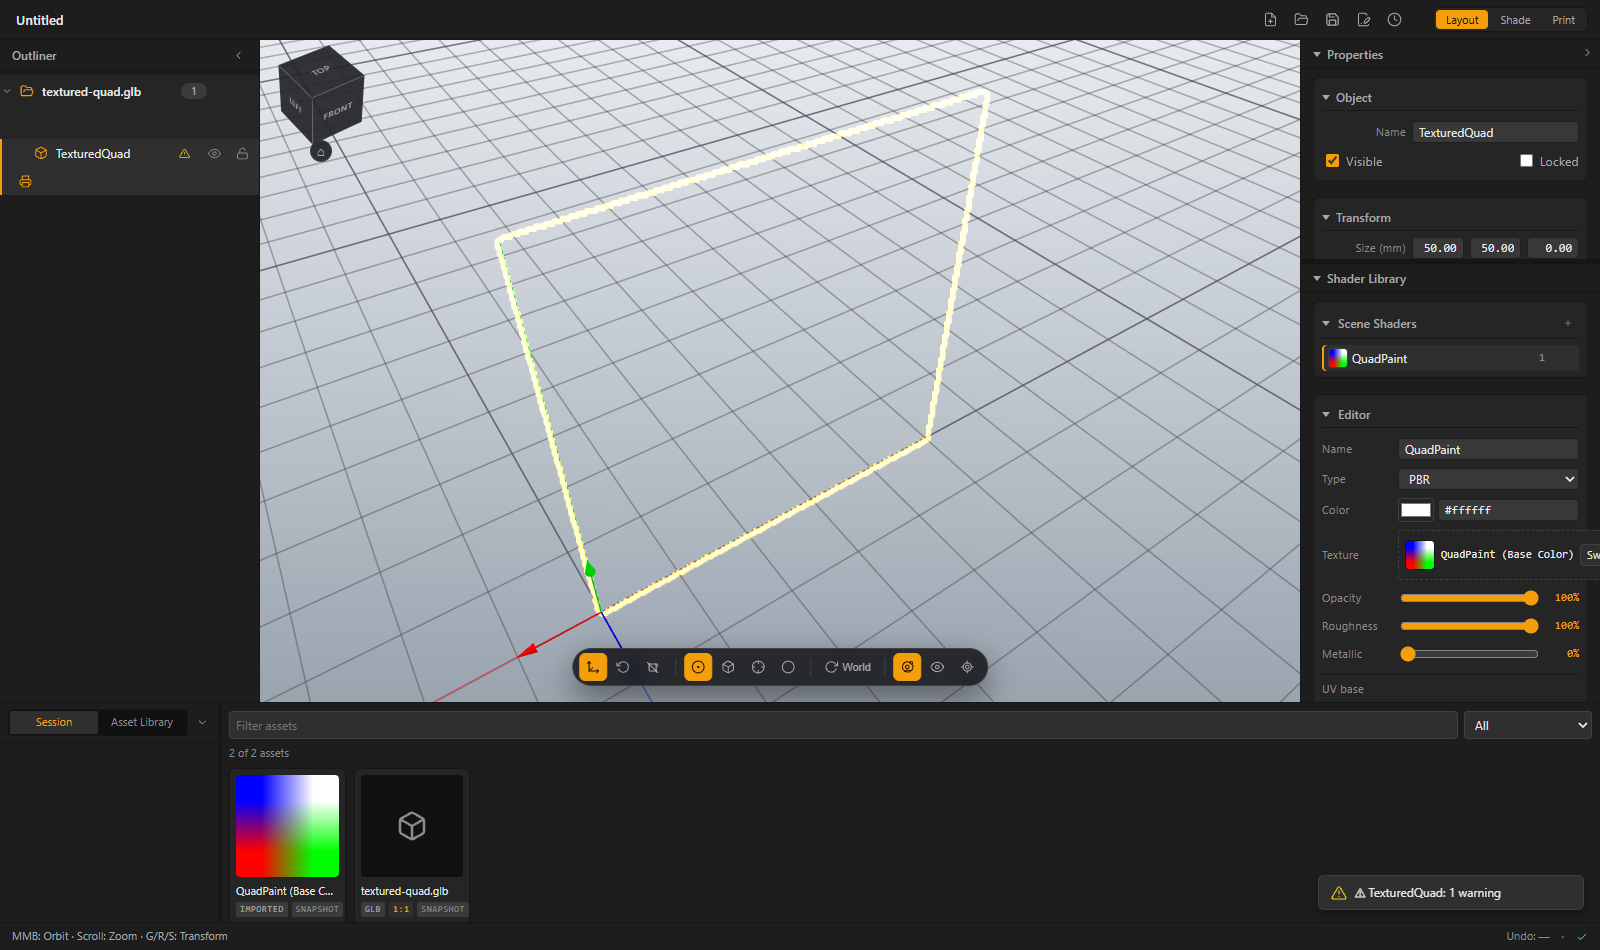
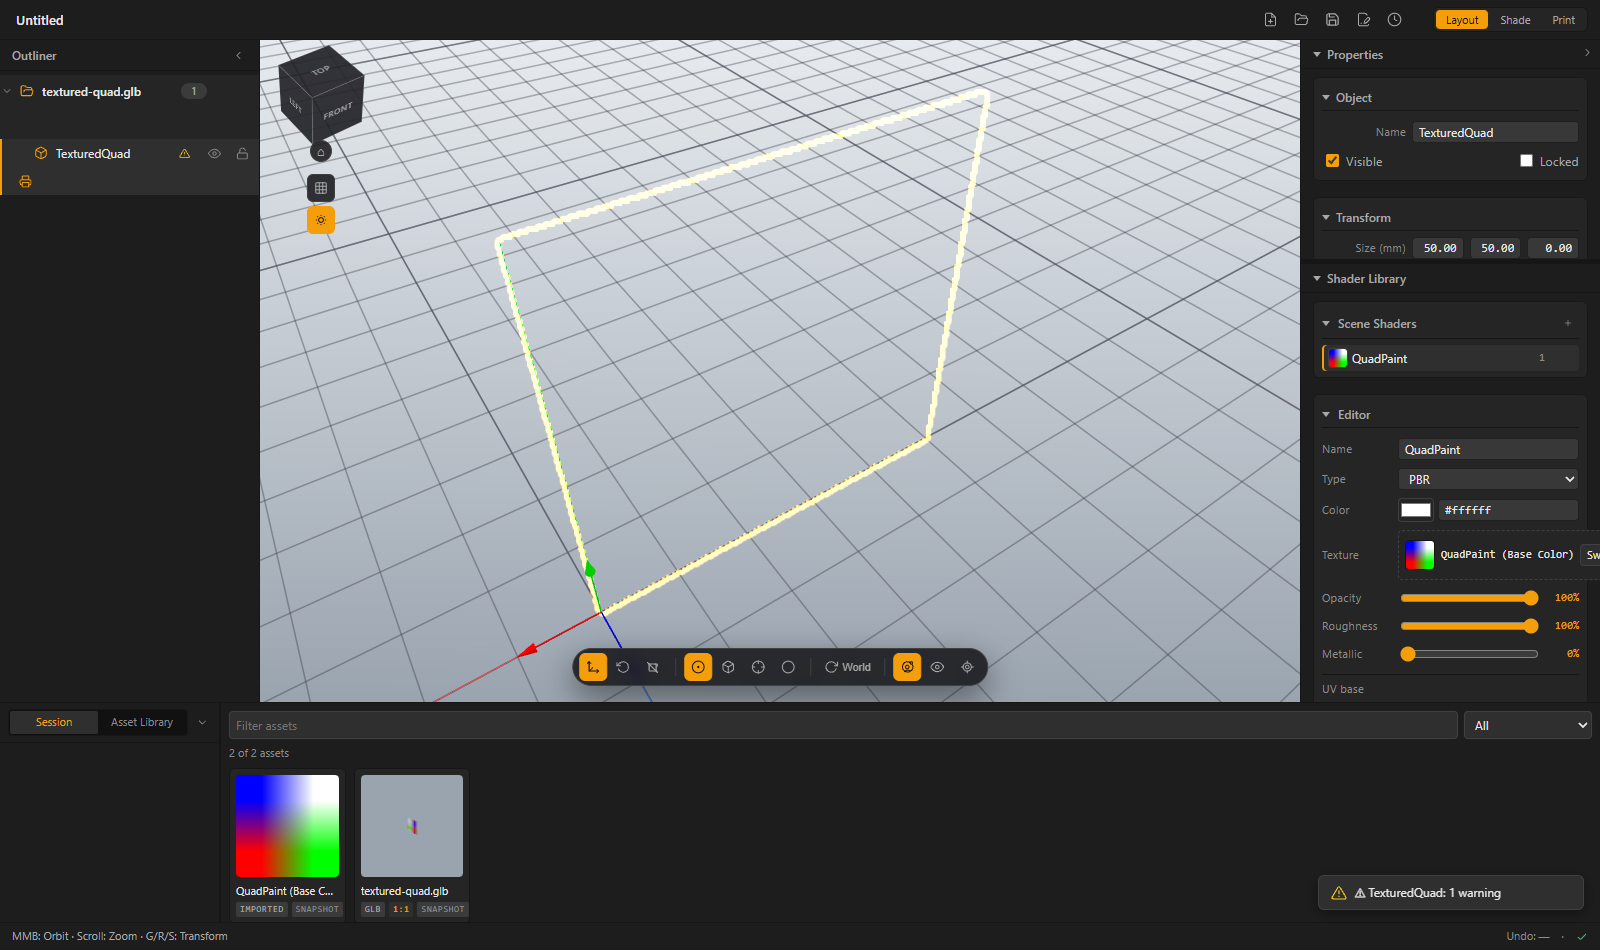
feat(viewport): wireframe + matte toggles under NavCube; Preview tab removed
New ui/ViewportToggles.js renders a vertical stack docked under the
NavCube: a Wireframe Edges toggle (Grid3x3 icon, with the edge-colour
swatch shown while ON) and a Matte/flat toggle (SunDim icon, print
preview mode that removes metallic). Same state contract the Preview tab
used (silent overlay writes + SceneManager.setOverlay); re-renders on
PROJECT_LOADED/PROJECT_NEW.

Moving display modes into the viewport makes them reachable from every
workspace, so the Print Panel Preview tab is removed (tabs are now
Scale / Validation / Bed / Export). Blueprint updated; setOverlay doc
list also gains the missing printPreview entry.

Changed region(s): [[0.2188, 0.7937, 0.3125, 0.9463], [0.1875, 0.1832, 0.2188, 0.2442]]

diff --git a/src/ui/PrintPanel.js b/src/ui/PrintPanel.js
@@ -21,7 +21,7 @@ import { exportFactor } from '../core/print/PrintScale.js';
 export const PRINTERS = printersData;
 
 let _bodyEl = null;
-let _activeTab = 'scale'; // 'scale' | 'validation' | 'bed' | 'preview' | 'export'
+let _activeTab = 'scale'; // 'scale' | 'validation' | 'bed' | 'export'
 
 export function init() {
   _bodyEl = document.getElementById('rp-print-body');
@@ -70,12 +70,14 @@ function _focusValidation() {
 // ── Tabs ──────────────────────────────────────────────────
 
 function _renderTabs() {
-  const tabs = ['scale', 'validation', 'bed', 'preview', 'export'];
+  // Preview controls (wireframe edges, matte/flat) moved to the viewport
+  // toggles under the NavCube (ui/ViewportToggles.js) so they're reachable
+  // from every workspace — no Preview tab.
+  const tabs = ['scale', 'validation', 'bed', 'export'];
   const labels = {
     scale: 'Scale',
     validation: 'Validation',
     bed: 'Bed',
-    preview: 'Preview',
     export: 'Export',
   };
 
@@ -498,76 +500,6 @@ function _renderBedTab() {
   return el;
 }
 
-// ── Preview Tab ──────────────────────────────────────────
-
-function _renderPreviewTab() {
-  const state = getState();
-  const isOn = state.scene.overlays.printPreview ?? false;
-  const wireOn = state.scene.overlays.wireframeEdges ?? false;
-  const wireColor = state.scene.overlays.wireframeEdgeColor ?? '#ffcc00';
-
-  let html = '<div class="pp-tab-content">';
-
-  html += '<div class="pp-field-group">';
-  html += '<label>Print Preview Mode</label>';
-  html += '<div class="pp-checkbox">';
-  html += `<input type="checkbox" id="pp-preview-toggle" ${isOn ? 'checked' : ''}>`;
-  html += '<label for="pp-preview-toggle">Matte/flat (removes metallic)</label>';
-  html += '</div>';
-  html += '</div>';
-
-  html += '<div class="pp-field-group">';
-  html += '<label>Wireframe Edges</label>';
-  html += '<div class="pp-checkbox">';
-  html += `<input type="checkbox" id="pp-wire-toggle" ${wireOn ? 'checked' : ''}>`;
-  html += '<label for="pp-wire-toggle">Show edge outlines on models</label>';
-  html += '</div>';
-  html += `<div class="pp-wire-color-row ${wireOn ? '' : 'pp-hidden'}">`;
-  html += '<label>Edge color</label>';
-  html += `<input type="color" id="pp-wire-color" value="${escapeAttr(_safeHex(wireColor))}">`;
-  html += '</div>';
-  html += '</div>';
-
-  html += '</div>';
-
-  const el = document.createElement('div');
-  el.innerHTML = html;
-
-  el.querySelector('#pp-preview-toggle').addEventListener('change', (e) => {
-    const enabled = e.target.checked;
-    setState(s => ({
-      ...s,
-      scene: { ...s.scene, overlays: { ...s.scene.overlays, printPreview: enabled } },
-    }), { silent: true });
-    SceneManager.setOverlay('printPreview', enabled);
-  });
-
-  const wireToggle = el.querySelector('#pp-wire-toggle');
-  const wireColorRow = el.querySelector('.pp-wire-color-row');
-  const wireColorInput = el.querySelector('#pp-wire-color');
-
-  wireToggle.addEventListener('change', (e) => {
-    const enabled = e.target.checked;
-    wireColorRow.classList.toggle('pp-hidden', !enabled);
-    setState(s => ({
-      ...s,
-      scene: { ...s.scene, overlays: { ...s.scene.overlays, wireframeEdges: enabled } },
-    }), { silent: true });
-    SceneManager.setOverlay('wireframeEdges', enabled);
-  });
-
-  wireColorInput.addEventListener('input', (e) => {
-    const color = e.target.value;
-    setState(s => ({
-      ...s,
-      scene: { ...s.scene, overlays: { ...s.scene.overlays, wireframeEdgeColor: color } },
-    }), { silent: true });
-    SceneManager.setWireframeEdgeColor(color);
-  });
-
-  return el;
-}
-
 // ── Main render ───────────────────────────────────────────
 
 async function _render() {
@@ -584,8 +516,6 @@ async function _render() {
     _bodyEl.appendChild(_renderValidationTab());
   } else if (_activeTab === 'bed') {
     _bodyEl.appendChild(_renderBedTab());
-  } else if (_activeTab === 'preview') {
-    _bodyEl.appendChild(_renderPreviewTab());
   } else if (_activeTab === 'export') {
     _bodyEl.appendChild(_renderExportTab());
   }
@@ -655,8 +585,3 @@ function _renderValidationErrorsModal({ data, close }) {
 }
 
 export const PrintPanel = { init };
-
-function _safeHex(value) {
-  const hex = String(value ?? '').trim();
-  return /^#[0-9a-f]{6}$/i.test(hex) ? hex : '#ffcc00';
-}

diff --git a/src/ui/ViewportToggles.js b/src/ui/ViewportToggles.js
@@ -1,0 +1,75 @@
+// Viewport display toggles — docked under the NavCube (user request
+// 2026-06-12): Wireframe Edges and Matte/flat (print preview, removes
+// metallic), plus the edge-colour swatch shown while wireframe is on.
+// These replaced the Print Panel's Preview tab so display modes are
+// reachable from EVERY workspace, not just Print.
+
+import { EVENTS } from '../core/events.js';
+import { subscribe, getState, setState } from '../core/StateManager.js';
+import { SceneManager } from '../core/SceneManager.js';
+import { icon } from '../core/Icons.js';
+import { escapeAttr } from './renderSafe.js';
+
+let _root = null;
+
+export function init() {
+  _root = document.getElementById('viewport-toggles');
+  if (!_root) return;
+  _render();
+  // Overlays arrive restored on load (spec load step 12) and reset on new.
+  subscribe(EVENTS.PROJECT_LOADED, _render);
+  subscribe(EVENTS.PROJECT_NEW, _render);
+}
+
+function _render() {
+  if (!_root) return;
+  const overlays = getState().scene.overlays ?? {};
+  const wireOn  = overlays.wireframeEdges ?? false;
+  const matteOn = overlays.printPreview ?? false;
+  const wireColor = _safeHex(overlays.wireframeEdgeColor ?? '#ffcc00');
+
+  _root.innerHTML = `
+    <button class="vt-btn ${wireOn ? 'vt-on' : ''}" data-toggle="wireframeEdges"
+            title="Wireframe edges — show edge outlines on models"
+            aria-pressed="${wireOn ? 'true' : 'false'}">
+      ${icon('Grid3x3', { width: 14, height: 14 })}
+    </button>
+    <input type="color" class="vp-wire-color ${wireOn ? '' : 'vp-hidden'}"
+           value="${escapeAttr(wireColor)}" title="Wireframe edge color">
+    <button class="vt-btn ${matteOn ? 'vt-on' : ''}" data-toggle="printPreview"
+            title="Matte/flat preview — removes metallic for print-like shading"
+            aria-pressed="${matteOn ? 'true' : 'false'}">
+      ${icon('SunDim', { width: 14, height: 14 })}
+    </button>
+  `;
+  _wire();
+}
+
+function _wire() {
+  _root.querySelectorAll('[data-toggle]').forEach(btn => {
+    btn.addEventListener('click', () => {
+      const name = btn.dataset.toggle;
+      const enabled = !(getState().scene.overlays?.[name] ?? false);
+      setState(s => ({
+        ...s,
+        scene: { ...s.scene, overlays: { ...s.scene.overlays, [name]: enabled } },
+      }), { silent: true });
+      SceneManager.setOverlay(name, enabled);
+      _render();
+    });
+  });
+  _root.querySelector('.vp-wire-color')?.addEventListener('input', (e) => {
+    const color = e.target.value;
+    setState(s => ({
+      ...s,
+      scene: { ...s.scene, overlays: { ...s.scene.overlays, wireframeEdgeColor: color } },
+    }), { silent: true });
+    SceneManager.setWireframeEdgeColor(color);
+  });
+}
+
+function _safeHex(value) {
+  return /^#[0-9a-fA-F]{6}$/.test(String(value)) ? value : '#ffcc00';
+}
+
+export const ViewportToggles = { init };

diff --git a/src/styles/components/viewport.css b/src/styles/components/viewport.css
@@ -50,6 +50,40 @@
 }
 .vt-label { font-size: var(--fs-xs); font-weight: 500; }
 
+/* ── Viewport display toggles (under the NavCube) ────────── */
+.vp-toggles {
+  position: absolute;
+  top: 134px;            /* nav-cube top 16 + height 110 + 8 gap */
+  left: 16px;
+  width: 90px;           /* match nav-cube width — buttons centre under it */
+  display: flex;
+  flex-direction: column;
+  align-items: center;
+  gap: var(--sp-2);
+  z-index: 10;
+}
+.vp-toggles .vt-btn {
+  background: rgba(19, 19, 22, 0.85);
+  backdrop-filter: blur(8px);
+  border: 1px solid var(--border-strong);
+}
+.vp-toggles .vt-btn:hover { background: var(--bg-3); color: var(--text-0); }
+.vp-toggles .vt-btn.vt-on {
+  background: var(--accent);
+  color: var(--accent-fg);
+  border-color: var(--accent);
+}
+.vp-wire-color {
+  width: 28px;
+  height: 18px;
+  padding: 0;
+  border: 1px solid var(--border-strong);
+  border-radius: var(--r-sm);
+  background: transparent;
+  cursor: pointer;
+}
+.vp-hidden { display: none; }
+
 /* ── Nav cube (Fusion 360 style) ─────────────────────────── */
 .nav-cube {
   position: absolute;

diff --git a/src/core/Icons.js b/src/core/Icons.js
@@ -41,6 +41,8 @@ const ICON_PATHS = {
   Copy:           '<rect x="9" y="9" width="13" height="13" rx="2" ry="2"/><path d="M5 15H4a2 2 0 0 1-2-2V4a2 2 0 0 1 2-2h9a2 2 0 0 1 2 2v1"/>',
   Edit3:          '<path d="M12 20h9"/><path d="M16.5 3.5a2.121 2.121 0 0 1 3 3L7 19l-4 1 1-4L16.5 3.5z"/>',
   Plus:           '<line x1="12" y1="5" x2="12" y2="19"/><line x1="5" y1="12" x2="19" y2="12"/>',
+  Grid3x3:        '<rect width="18" height="18" x="3" y="3" rx="2"/><path d="M3 9h18"/><path d="M3 15h18"/><path d="M9 3v18"/><path d="M15 3v18"/>',
+  SunDim:         '<circle cx="12" cy="12" r="4"/><path d="M12 4h.01"/><path d="M20 12h.01"/><path d="M12 20h.01"/><path d="M4 12h.01"/><path d="M17.657 6.343h.01"/><path d="M17.657 17.657h.01"/><path d="M6.343 17.657h.01"/><path d="M6.343 6.343h.01"/>',
   CircleAlert:    '<circle cx="12" cy="12" r="10"/><line x1="12" y1="8" x2="12" y2="12"/><line x1="12" y1="16" x2="12.01" y2="16"/>',
 
   // Phase 5 — print pipeline

diff --git a/src/app/main.ts b/src/app/main.ts
@@ -12,6 +12,7 @@ import { PrintPanel } from '../ui/PrintPanel.js';
 import { ContextMenu } from '../ui/ContextMenu.js';
 import { Modal } from '../ui/Modal.js';
 import { ViewportToolbar } from '../ui/ViewportToolbar.js';
+import { ViewportToggles } from '../ui/ViewportToggles.js';
 import { NavCube } from '../ui/NavCube.js';
 import { push, TransformCommand } from '../core/HistoryManager.js';
 import { MeshValidator } from '../core/MeshValidator.js';
@@ -66,6 +67,7 @@ async function bootstrap() {
   ContextMenu.init();
   AssetPanel.init();
   ViewportToolbar.init();
+  ViewportToggles.init();
   NavCube.init();
   PersistenceManager.init();
   ProjectMenu.init();

diff --git a/index.html b/index.html
@@ -50,6 +50,7 @@
       </canvas>
       <div id="viewport-drop-overlay"></div>
       <div id="nav-cube" class="nav-cube"></div>
+      <div id="viewport-toggles" class="vp-toggles"></div>
       <div id="viewport-toolbar" class="viewport-toolbar"></div>
       <div id="boot-status" class="boot-status" role="status" aria-live="polite">
         Loading MIXOMESH...

diff --git a/Blueprint.md b/Blueprint.md
@@ -971,7 +971,7 @@ SceneManager.endBodyDrag()
 SceneManager.cancelBodyDrag()                // restores pivot to pre-drag position
 
 // Overlays
-SceneManager.setOverlay(name, on)             // 'grid'|'axes'|'wireframe'|'bedPreview'|'wireframeEdges'
+SceneManager.setOverlay(name, on)             // 'grid'|'axes'|'wireframe'|'printPreview'|'bedPreview'|'wireframeEdges'
 SceneManager.setWireframeEdgeColor(hexColor)  // live-update edge color while wireframeEdges is on
 SceneManager.setGrid({cellMM,subdivisions})   // re-skins grid lines (footprint unchanged)
 SceneManager.rebuildBed()                     // rebuilds ground to current print.bedDimensions XY
@@ -2261,9 +2261,22 @@ and does not maintain its own extension table.
 Triggered by RMB. Items per Part 12 of v3.0 (Group/Ungroup/Duplicate/Smart Replace/Transform Swab/Set Shader/etc.).
 
 ### Print Panel (`src/ui/PrintPanel.js`)
-Tabs: Scale / Validation / Bed / Preview / Export (Thickness + Orientation
-future). Preview owns print-preview matte mode + wireframe edges/colour.
+Tabs: Scale / Validation / Bed / Export (Thickness + Orientation future).
 Validation reads the §9 A6 cache with an explicit "Validate All".
+Display modes (print-preview matte, wireframe edges + colour) live in the
+viewport toggles under the NavCube — see Viewport Toggles below — so they
+work from every workspace; there is no Preview tab.
+
+### Viewport Toggles (`src/ui/ViewportToggles.js`)
+Vertical button stack docked under the NavCube (`#viewport-toggles`). Two
+amber-highlight toggles + one swatch:
+- **Wireframe edges** (`Grid3x3` icon) → `SceneManager.setOverlay('wireframeEdges', on)`.
+- **Edge colour** swatch, visible only while wireframe edges are ON →
+  `SceneManager.setWireframeEdgeColor(hex)`.
+- **Matte/flat** (`SunDim` icon) — print-preview mode, removes metallic →
+  `SceneManager.setOverlay('printPreview', on)`.
+State lives in `state.scene.overlays` (silent writes, same contract the
+Preview tab used). Re-renders on `PROJECT_LOADED` / `PROJECT_NEW`.
 
 ### Viewport Toolbar (`src/ui/ViewportToolbar.js`)
 
